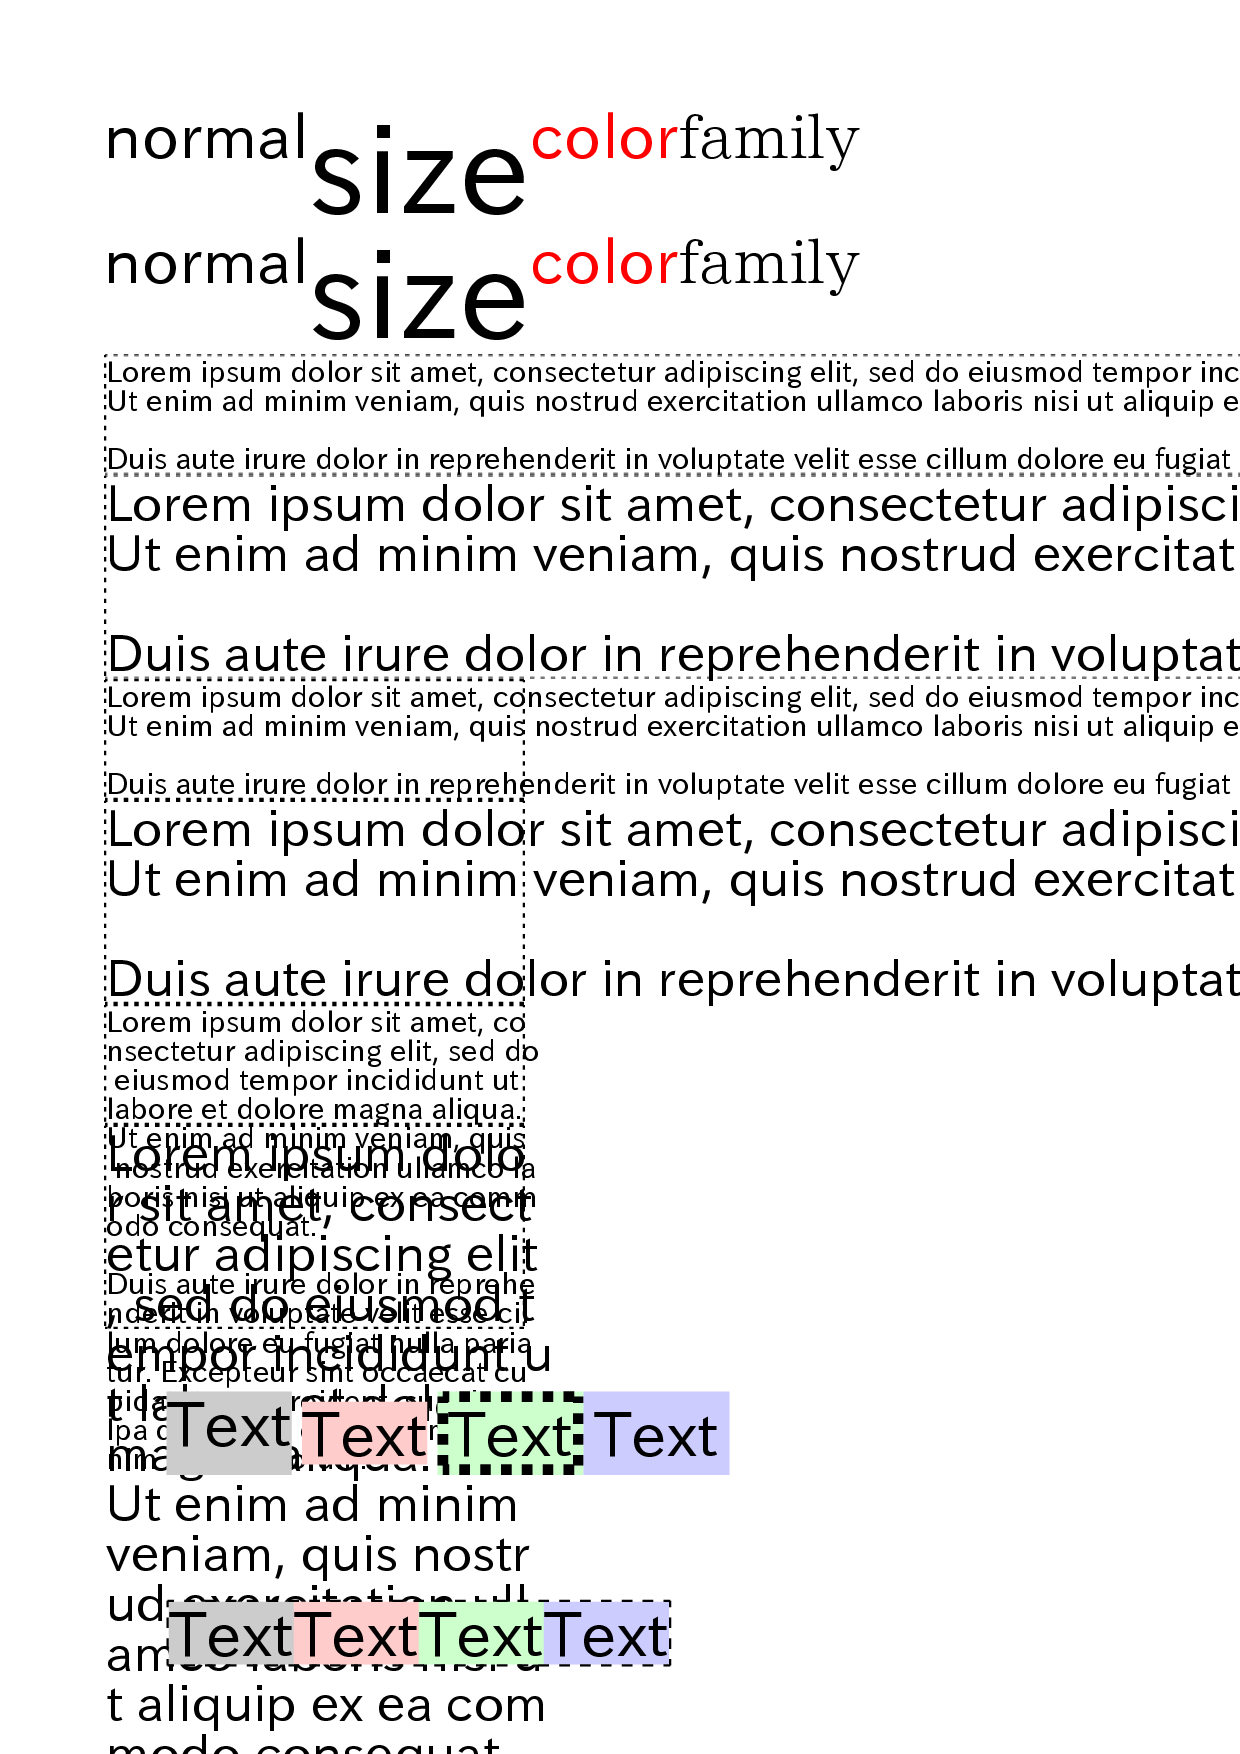
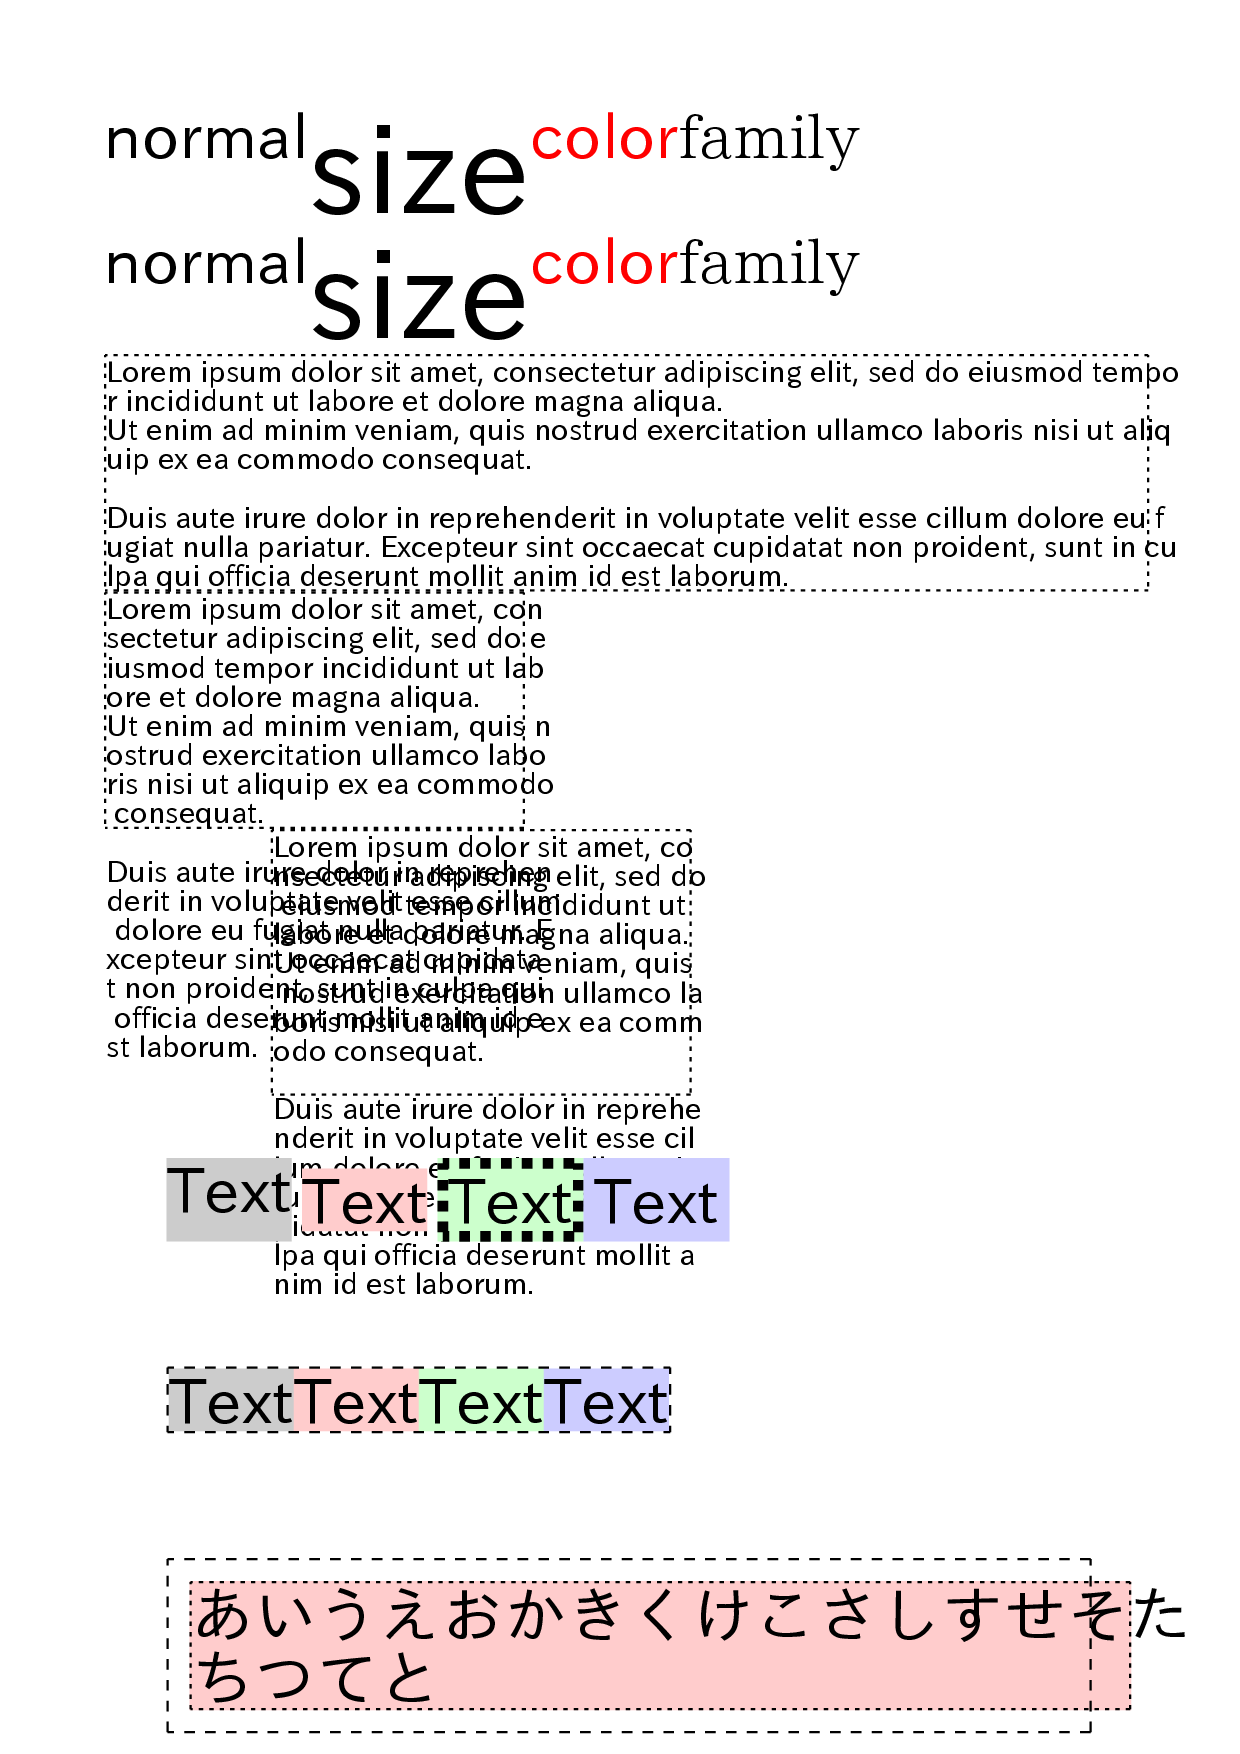
getPreferredSizeの引数を変更

Changed region(s): [[0.0613, 0.1847, 1.0, 1.0]]

diff --git a/item.box.go b/item.box.go
@@ -1,6 +1,7 @@
 package flexpdf
 
 import (
+	"log"
 	"math"
 
 	"github.com/signintech/gopdf"
@@ -59,13 +60,12 @@ func (b *Box) drawContent(pdf *gopdf.GoPdf, r rect) (err error) {
 
 		// 1パス目は自然なサイズ
 		for i, item := range b.Items {
-			maxWidth := -1.0 // -1 -> 自然なサイズ
-			if mainAxis == vertical {
-				maxWidth = r.w
-			}
-			ps, err := item.getPreferredSize(pdf, maxWidth)
+			ps, err := item.getPreferredSize(pdf, size{w: r.w, h: r.h})
 			if err != nil {
 				return err
+			}
+			if ps.h > 600 {
+				log.Print("🍈", ps)
 			}
 			growTotal += item.getFlexGrow()
 			prefSizes[i] = ps
@@ -85,7 +85,7 @@ func (b *Box) drawContent(pdf *gopdf.GoPdf, r rect) (err error) {
 
 		// log.Println(mainAxisRemains, growTotal, growing, spacing)
 
-		// 2パス目は幅を制限したときのサイズ
+		// 2パス目はグロー・シュリンクを考慮したサイズ
 		for i, item := range b.Items {
 			ps := prefSizes[i]
 
@@ -96,12 +96,16 @@ func (b *Box) drawContent(pdf *gopdf.GoPdf, r rect) (err error) {
 				})
 			}
 
-			if mainAxis == horizontal {
-				ps2, err := item.getPreferredSize(pdf, ps.w) // 指定したサイズ
+			if mainAxis == horizontal { // TODO これ要る？
+				ps_, err := item.getPreferredSize(pdf, ps) // グロー・シュリンクしたサイズ
 				if err != nil {
 					return err
 				}
-				ps.h = ps2.h // 高さだけ更新
+				if ps_.h > 600 {
+					log.Println("🍈", ps_)
+				}
+				// TODO 幅も更新？
+				ps.h = ps_.h // 高さだけ更新
 			}
 
 			prefSizes[i] = ps
@@ -126,6 +130,9 @@ func (b *Box) drawContent(pdf *gopdf.GoPdf, r rect) (err error) {
 
 	for i, item := range b.Items {
 		ps := prefSizes[i]
+		if ps.h > 600 {
+			log.Println("🍈🍈", ps)
+		}
 
 		itemRect.w = ps.w
 		itemRect.h = ps.h
@@ -158,20 +165,23 @@ func (b *Box) drawContent(pdf *gopdf.GoPdf, r rect) (err error) {
 
 	return nil
 }
-func (b *Box) getContentSize(pdf *gopdf.GoPdf, _ float64) (size, error) {
+func (b *Box) getContentSize(pdf *gopdf.GoPdf, contentBoxMax size) (size, error) {
+	log.Println(contentBoxMax)
+
 	cs := size{}
 	for _, item := range b.Items {
-		ips, err := item.getPreferredSize(pdf, -1)
+		ips, err := item.getPreferredSize(pdf, contentBoxMax)
 		if err != nil {
 			return size{}, err
 		}
-		if b.Direction.mainAxis() == horizontal {
-			cs.w += ips.w
-			cs.h = math.Max(cs.h, ips.h)
-		} else {
-			cs.w = math.Max(cs.w, ips.w)
-			cs.h += ips.h
-		}
+
+		mainAxis := b.Direction.mainAxis()
+		counterAxis := !mainAxis
+
+		cs = cs.add(mainAxis, ips.get(mainAxis))
+		cs = cs.update(counterAxis, func(ov float64) float64 {
+			return math.Max(ov, ips.get(counterAxis))
+		})
 	}
 	return cs, nil
 }

diff --git a/item.go b/item.go
@@ -2,19 +2,24 @@ package flexpdf
 
 import (
 	"image/color"
-	"math"
+	"log"
 
 	"github.com/signintech/gopdf"
 )
 
-// TODO 良い名前
-type flexItemExtender interface {
+var (
+	_ flexItemContent = &Box{}
+	_ flexItemContent = &Text{}
+)
+
+// flexItemContent は
+type flexItemContent interface {
 	FlexItem
 	drawContent(*gopdf.GoPdf, rect) error
-	getContentSize(pdf *gopdf.GoPdf, width float64) (size, error)
+	getContentSize(pdf *gopdf.GoPdf, contentBoxMax size) (size, error)
 }
 
-type flexItemCommon[T flexItemExtender] struct {
+type flexItemCommon[T flexItemContent] struct {
 	self            T
 	Width           float64
 	Height          float64
@@ -135,8 +140,10 @@ func (c *flexItemCommon[T]) draw(pdf *gopdf.GoPdf, marginBox rect) (err error) {
 	}
 	return nil
 }
-func (c *flexItemCommon[T]) getPreferredSize(pdf *gopdf.GoPdf, maxWidth float64) (size, error) {
-	ps, err := c.self.getContentSize(pdf, math.Min(maxWidth, c.Width-c.Margin.w()-c.Padding.w()-c.Border.Width.w()))
+func (c *flexItemCommon[T]) getPreferredSize(pdf *gopdf.GoPdf, marginBoxMax size) (size, error) {
+	contentBoxMax := marginBoxMax.shrink(c.Margin).shrink(c.Border.Width).shrink(c.Padding)
+
+	ps, err := c.self.getContentSize(pdf, contentBoxMax)
 	if err != nil {
 		return size{}, err
 	}
@@ -151,7 +158,11 @@ func (c *flexItemCommon[T]) getPreferredSize(pdf *gopdf.GoPdf, maxWidth float64)
 	}
 
 	for _, space := range []Spacing{c.Margin, c.Border.Width, c.Padding} {
-		ps = ps.add(space)
+		ps = ps.expand(space)
+	}
+
+	if ps.h > 600 {
+		log.Println("🍣", ps)
 	}
 
 	return ps, nil

diff --git a/draw_test.go b/draw_test.go
@@ -107,23 +107,14 @@ var cases = map[string]*Box{
 		NewRowBox(
 			NewText(NewRun(text).SetFontSize(14)),
 		).SetBorder(UniformedBorder(color.Black, BorderStyleDotted, 1)),
-		NewRowBox(
-			NewText(NewRun(text).SetFontSize(24)),
-		).SetBorder(UniformedBorder(color.Black, BorderStyleDotted, 1)),
 		// 親がサイズ指定
 		NewRowBox(
 			NewText(NewRun(text).SetFontSize(14)),
 		).SetBorder(UniformedBorder(color.Black, BorderStyleDotted, 1)).SetWidth(200),
-		NewRowBox(
-			NewText(NewRun(text).SetFontSize(24)),
-		).SetBorder(UniformedBorder(color.Black, BorderStyleDotted, 1)).SetWidth(200),
 		// 自身がサイズ指定
 		NewRowBox(
 			NewText(NewRun(text).SetFontSize(14)).SetBorder(UniformedBorder(color.Black, BorderStyleDotted, 1)).SetWidth(200),
-		),
-		NewRowBox(
-			NewText(NewRun(text).SetFontSize(24)).SetBorder(UniformedBorder(color.Black, BorderStyleDotted, 1)).SetWidth(200),
-		),
+		).SetMargin(0, 0, 0, 80),
 		NewRowBox(
 			NewText(NewRun("Text").SetFontSize(30)).SetBackgroundColor(color.RGBA{R: 0xCC, G: 0xCC, B: 0xCC, A: 0xFF}),
 			NewText(NewRun("Text").SetFontSize(30)).SetBackgroundColor(color.RGBA{R: 0xFF, G: 0xCC, B: 0xCC, A: 0xFF}).SetMargin(5),

diff --git a/system.size.go b/system.size.go
@@ -25,14 +25,30 @@ func (s size) set(a axis, value float64) size {
 	return s
 }
 
+// add は指定した軸の値を加算し、新たなsizeを返します
+func (s size) add(a axis, value float64) size {
+	if a == horizontal {
+		s.w += value
+	} else {
+		s.h += value
+	}
+	return s
+}
+
 // update は値を更新するためのコールバックを用いて指定した軸の値を更新し、新たなsizeを返します
 func (s size) update(a axis, fn func(float64) float64) size {
 	return s.set(a, fn(s.get(a)))
 }
 
-func (s size) add(spacing Spacing) size {
+func (s size) expand(spacing Spacing) size {
 	s.w += spacing.Left + spacing.Right
 	s.h += spacing.Top + spacing.Bottom
+	// TODO negative
+	return s
+}
+func (s size) shrink(spacing Spacing) size {
+	s.w -= spacing.Left + spacing.Right
+	s.h -= spacing.Top + spacing.Bottom
 	// TODO negative
 	return s
 }

diff --git a/item.text.go b/item.text.go
@@ -2,6 +2,7 @@ package flexpdf
 
 import (
 	"image/color"
+	"log"
 	"math"
 	"strings"
 
@@ -196,10 +197,10 @@ func (t *Text) drawContent(pdf *gopdf.GoPdf, r rect) (err error) {
 	return nil
 }
 
-func (t *Text) getContentSize(pdf *gopdf.GoPdf, maxWidth float64) (s size, err error) {
+func (t *Text) getContentSize(pdf *gopdf.GoPdf, contentBoxMax size) (s size, err error) {
 	defer wrap(&err, "text.getContentSize")
 
-	lines, err := t.splitLines(pdf, maxWidth)
+	lines, err := t.splitLines(pdf, contentBoxMax.w)
 	if err != nil {
 		return size{}, err
 	}
@@ -208,6 +209,11 @@ func (t *Text) getContentSize(pdf *gopdf.GoPdf, maxWidth float64) (s size, err e
 		s.w = math.Max(s.w, line.size.w)
 		s.h += line.size.h
 	}
+
+	if strings.HasPrefix(t.Runs[0].Text, "Lorem ipsum") {
+		log.Println(s, contentBoxMax.w)
+	}
+
 	return s, nil
 }
 

diff --git a/system.go b/system.go
@@ -22,7 +22,7 @@ var (
 type FlexItem interface {
 	// draw はこのFlexItemを与えられた矩形内に描画します。
 	draw(pdf *gopdf.GoPdf, r rect) error
-	getPreferredSize(pdf *gopdf.GoPdf, width float64) (size, error)
+	getPreferredSize(pdf *gopdf.GoPdf, marginBoxMax size) (size, error)
 	getFlexGrow() float64
 }
 

diff --git a/system.rect.go b/system.rect.go
@@ -2,6 +2,7 @@ package flexpdf
 
 // rect はページ中の矩形を表します
 type rect struct {
+	// TODO sizeを使う
 	x, y, w, h float64
 }
 
